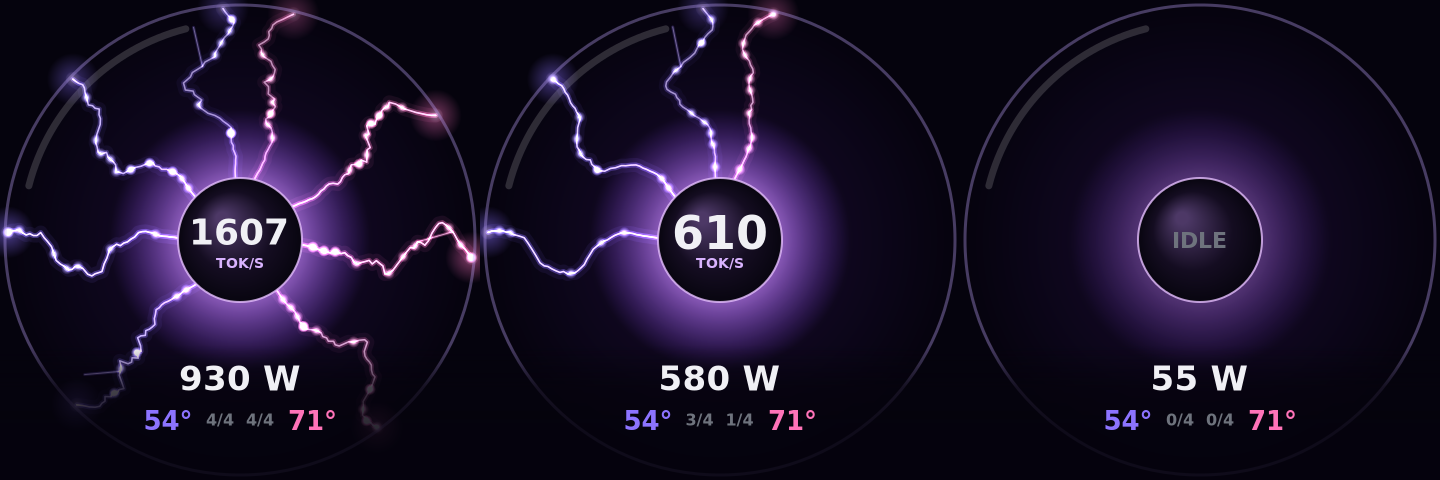
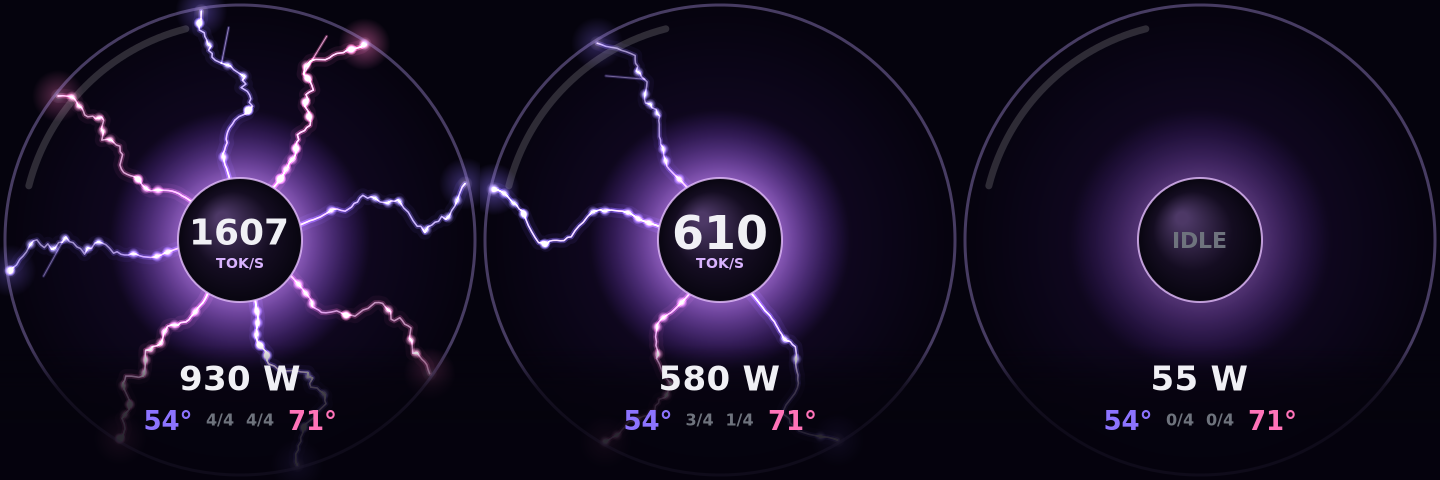
plasma: let live filaments roam and swirl
Filaments are no longer pinned to fixed angles. The globe swirls faster
with throughput, each filament wanders with its own damped random
velocity, and nearby filaments repel so they spread out. A newly live
slot starts in the widest gap.

Claude-Session: https://claude.ai/code/session_015nAWjnqqZVdKSvbNr6PTTx

diff --git a/c/plasma.c b/c/plasma.c
@@ -1,8 +1,9 @@
 /*
  * plasma: your LLM servers as a plasma globe on the iCUE LINK AIO pump LCD.
  *
- * One filament per request slot (vLLM --max-num-seqs) on each server: violet on the
- * left for the ZOTAC's, pink on the right for the TUF's. Busy slots crackle brightly
+ * One filament per busy request slot (vLLM --max-num-seqs) on each server: violet
+ * for the ZOTAC's, pink for the TUF's. Filaments roam and swirl around the globe,
+ * faster with throughput, and push apart like a real plasma ball. Busy slots crackle
  * and carry token pulses at the server's real rate; free slots are hidden, fading
  * in and out as requests start and finish.
  * Run with --demo to simulate data, --bench to write preview PNGs.
@@ -296,7 +297,8 @@ static void demo_poll(stats *s, double t)
 #define FREE_GLOW       0.0         /* free slots are hidden */
 
 typedef struct {
-    double theta, home;     /* current / resting angle where it meets the glass */
+    double theta, home;     /* current angle where it meets the glass / initial layout angle */
+    double omega;           /* its own angular velocity (rad/s) */
     double phase[3];        /* noise phases for its shape */
     double life;            /* brightness, eased toward 1 when busy, FREE_GLOW when free */
     double jit;             /* this filament's crackle, eased */
@@ -357,16 +359,45 @@ static void simulate(const stats *s, double dt, double t, double *jitter)
     /* How violently busy filaments crackle */
     *jitter = 0.6 + fmin(s->tok_s, 2400) / 1200;
 
+    /* The whole globe swirls, faster with throughput */
+    double swirl = 0.18 + fmin(s->tok_s, 2400) / 3000;
+
     for (int i = 0; i < N_SLOTS; i++) {
         filament *f = &fils[i];
         int k = i % SLOTS_PER_SERVER;
+        int was_busy = f->busy;
         f->busy = k < s->running_port[f->src];
+        if (f->busy && !was_busy && f->life < 0.05) {
+            /* Newly live slot: start it in the widest gap between visible filaments */
+            double best = f->home, best_gap = -1;
+            for (int c = 0; c < 24; c++) {
+                double cand = c * 2 * M_PI / 24, gap = 10;
+                for (int j = 0; j < N_SLOTS; j++)
+                    if (j != i && fils[j].life > 0.05)
+                        gap = fmin(gap, fabs(remainder(cand - fils[j].theta, 2 * M_PI)));
+                if (gap > best_gap) { best_gap = gap; best = cand; }
+            }
+            f->theta = best;
+            f->omega = (frand() - 0.5) * 0.6;
+        }
         double want = f->busy ? 1 : FREE_GLOW, want_jit = f->busy ? *jitter : 0.2;
         f->life += (want - f->life) * fmin(1, dt * 4);
         f->jit += (want_jit - f->jit) * fmin(1, dt * 3);
+        if (f->life < 0.01)
+            continue;
 
-        /* Wander a little around its home angle */
-        f->theta = f->home + 0.12 * sin(t * (f->busy ? 0.7 : 0.25) + f->phase[0]);
+        /* Roam: random wander, damping, and a push away from close neighbours */
+        f->omega += (frand() - 0.5) * 2.4 * dt;
+        f->omega *= exp(-dt * 0.8);
+        for (int j = 0; j < N_SLOTS; j++) {
+            if (j == i || fils[j].life < 0.05)
+                continue;
+            double d = remainder(f->theta - fils[j].theta, 2 * M_PI);
+            if (fabs(d) < 0.8)
+                f->omega += (d >= 0 ? 1 : -1) * (0.8 - fabs(d)) * 3.0 * dt;
+        }
+        f->omega = fmax(-1.2, fmin(1.2, f->omega));
+        f->theta = remainder(f->theta + (f->omega + swirl) * dt, 2 * M_PI);
 
         for (int j = 0; j < FIL_PTS; j++) {
             double u = j / (double)(FIL_PTS - 1);

diff --git a/README.md b/README.md
@@ -32,7 +32,7 @@ Every display shows generation tokens/sec summed across all requests on all vLLM
 - `reactor`: outer ring is GPU load, core segments spin faster with load, glow shifts cyan to amber to red with power
 - `singularity`: one particle per token, streams per server form spiral arms, trails, photon ring
 - `synapse`: fixed three layer network, one signal per two tokens, neurons flash as signals pass, core flashes on arrival
-- `plasma`: a plasma globe with one filament per request slot (`--max-num-seqs`) on each server. Busy slots crackle and carry token pulses at the real rate, free slots are hidden, and the counter shows busy/total slots per GPU. Set `SLOTS_PER_SERVER` to match your servers
+- `plasma`: a plasma globe with one filament per busy request slot (`--max-num-seqs`) on each server. Filaments roam and swirl around the globe, faster with throughput, and push apart like a real plasma ball. Busy slots crackle and carry token pulses at the real rate, free slots are hidden, and the counter shows busy/total slots per GPU. Set `SLOTS_PER_SERVER` to match your servers
 - `horizon`: passively captures streamed text from the vLLM servers on loopback (libpcap) and drops a legible subset in as words; the rest of the token flow becomes accretion dust. Lensed starfield, spaghettification, gravitational redshift. Nothing is stored or sent anywhere. Needs root or CAP_NET_RAW.
 
 Built for a dual RTX 5090 box running two vLLM servers, but the GPU bus IDs and vLLM ports are constants at the top of each source file.
